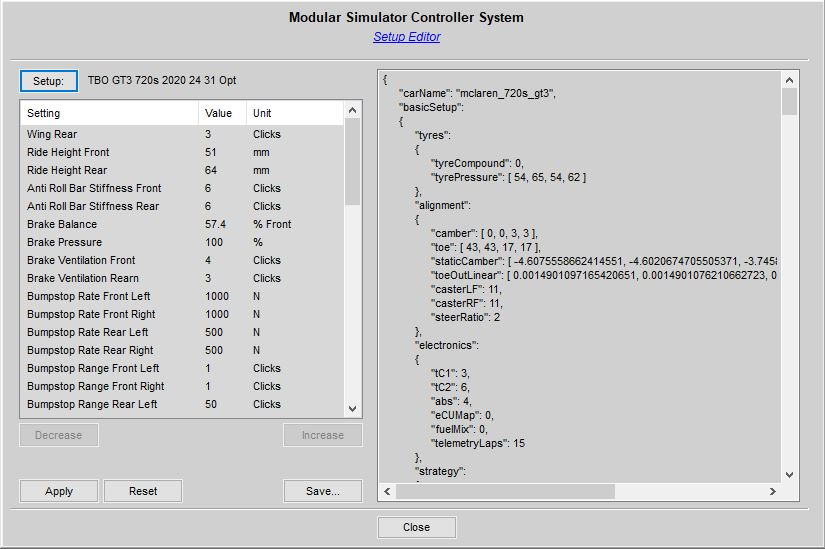
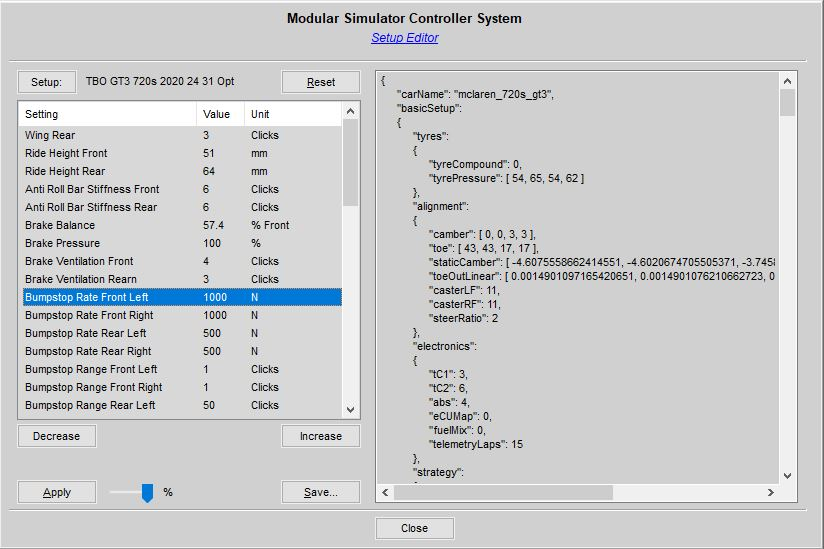
Setup handling in "Setup Advisor" Part 8

Changed region(s): [[0.0, 0.0, 1.0, 1.0]]

diff --git a/Docs/Setup Advisor.md b/Docs/Setup Advisor.md
@@ -81,7 +81,7 @@ After you have described your problems and reviewed the recommendations of "Setu
 
 ![](https://github.com/SeriousOldMan/Simulator-Controller/blob/Development/Docs/Images/Setup%20Editor%201.JPG)
 
-On the right side, you will see the simulator specific content of the setup file, in this case a setup for *Assetto Corsa Competizione* in a JSON format. In the list on the right, all settings known to "Setup Advisor", which are valid for the currently selected simulator and car will be listed together with their values from the currently loaded setup file. You can select a setting in this list and change its value using the "Increase" or "Decrease" button. Much more interesting is the "Apply" button below. When you click this button, all recommendations of the "Setup Advisor" will be applied as balanced changes to the currently loaded setup. You will the see a list like this:
+On the right side, you will see the simulator specific content of the setup file, in this case a setup for *Assetto Corsa Competizione* in a JSON format. In the list on the right, all settings known to "Setup Advisor", which are valid for the currently selected simulator and car will be listed together with their values from the currently loaded setup file. You can select a setting in this list and change its value using the "Increase" or "Decrease" button. Much more interesting is the "Apply" button below. When you click this button, all recommendations of the "Setup Advisor" will be applied as balanced changes to the currently loaded setup. You can specify with the small slider to the right of the button the amount of the applied changes, thereby filtering small and possibly unneccessary changes. You will then see a list like this:
 
 ![](https://github.com/SeriousOldMan/Simulator-Controller/blob/Development/Docs/Images/Setup%20Editor%202.JPG)
 
